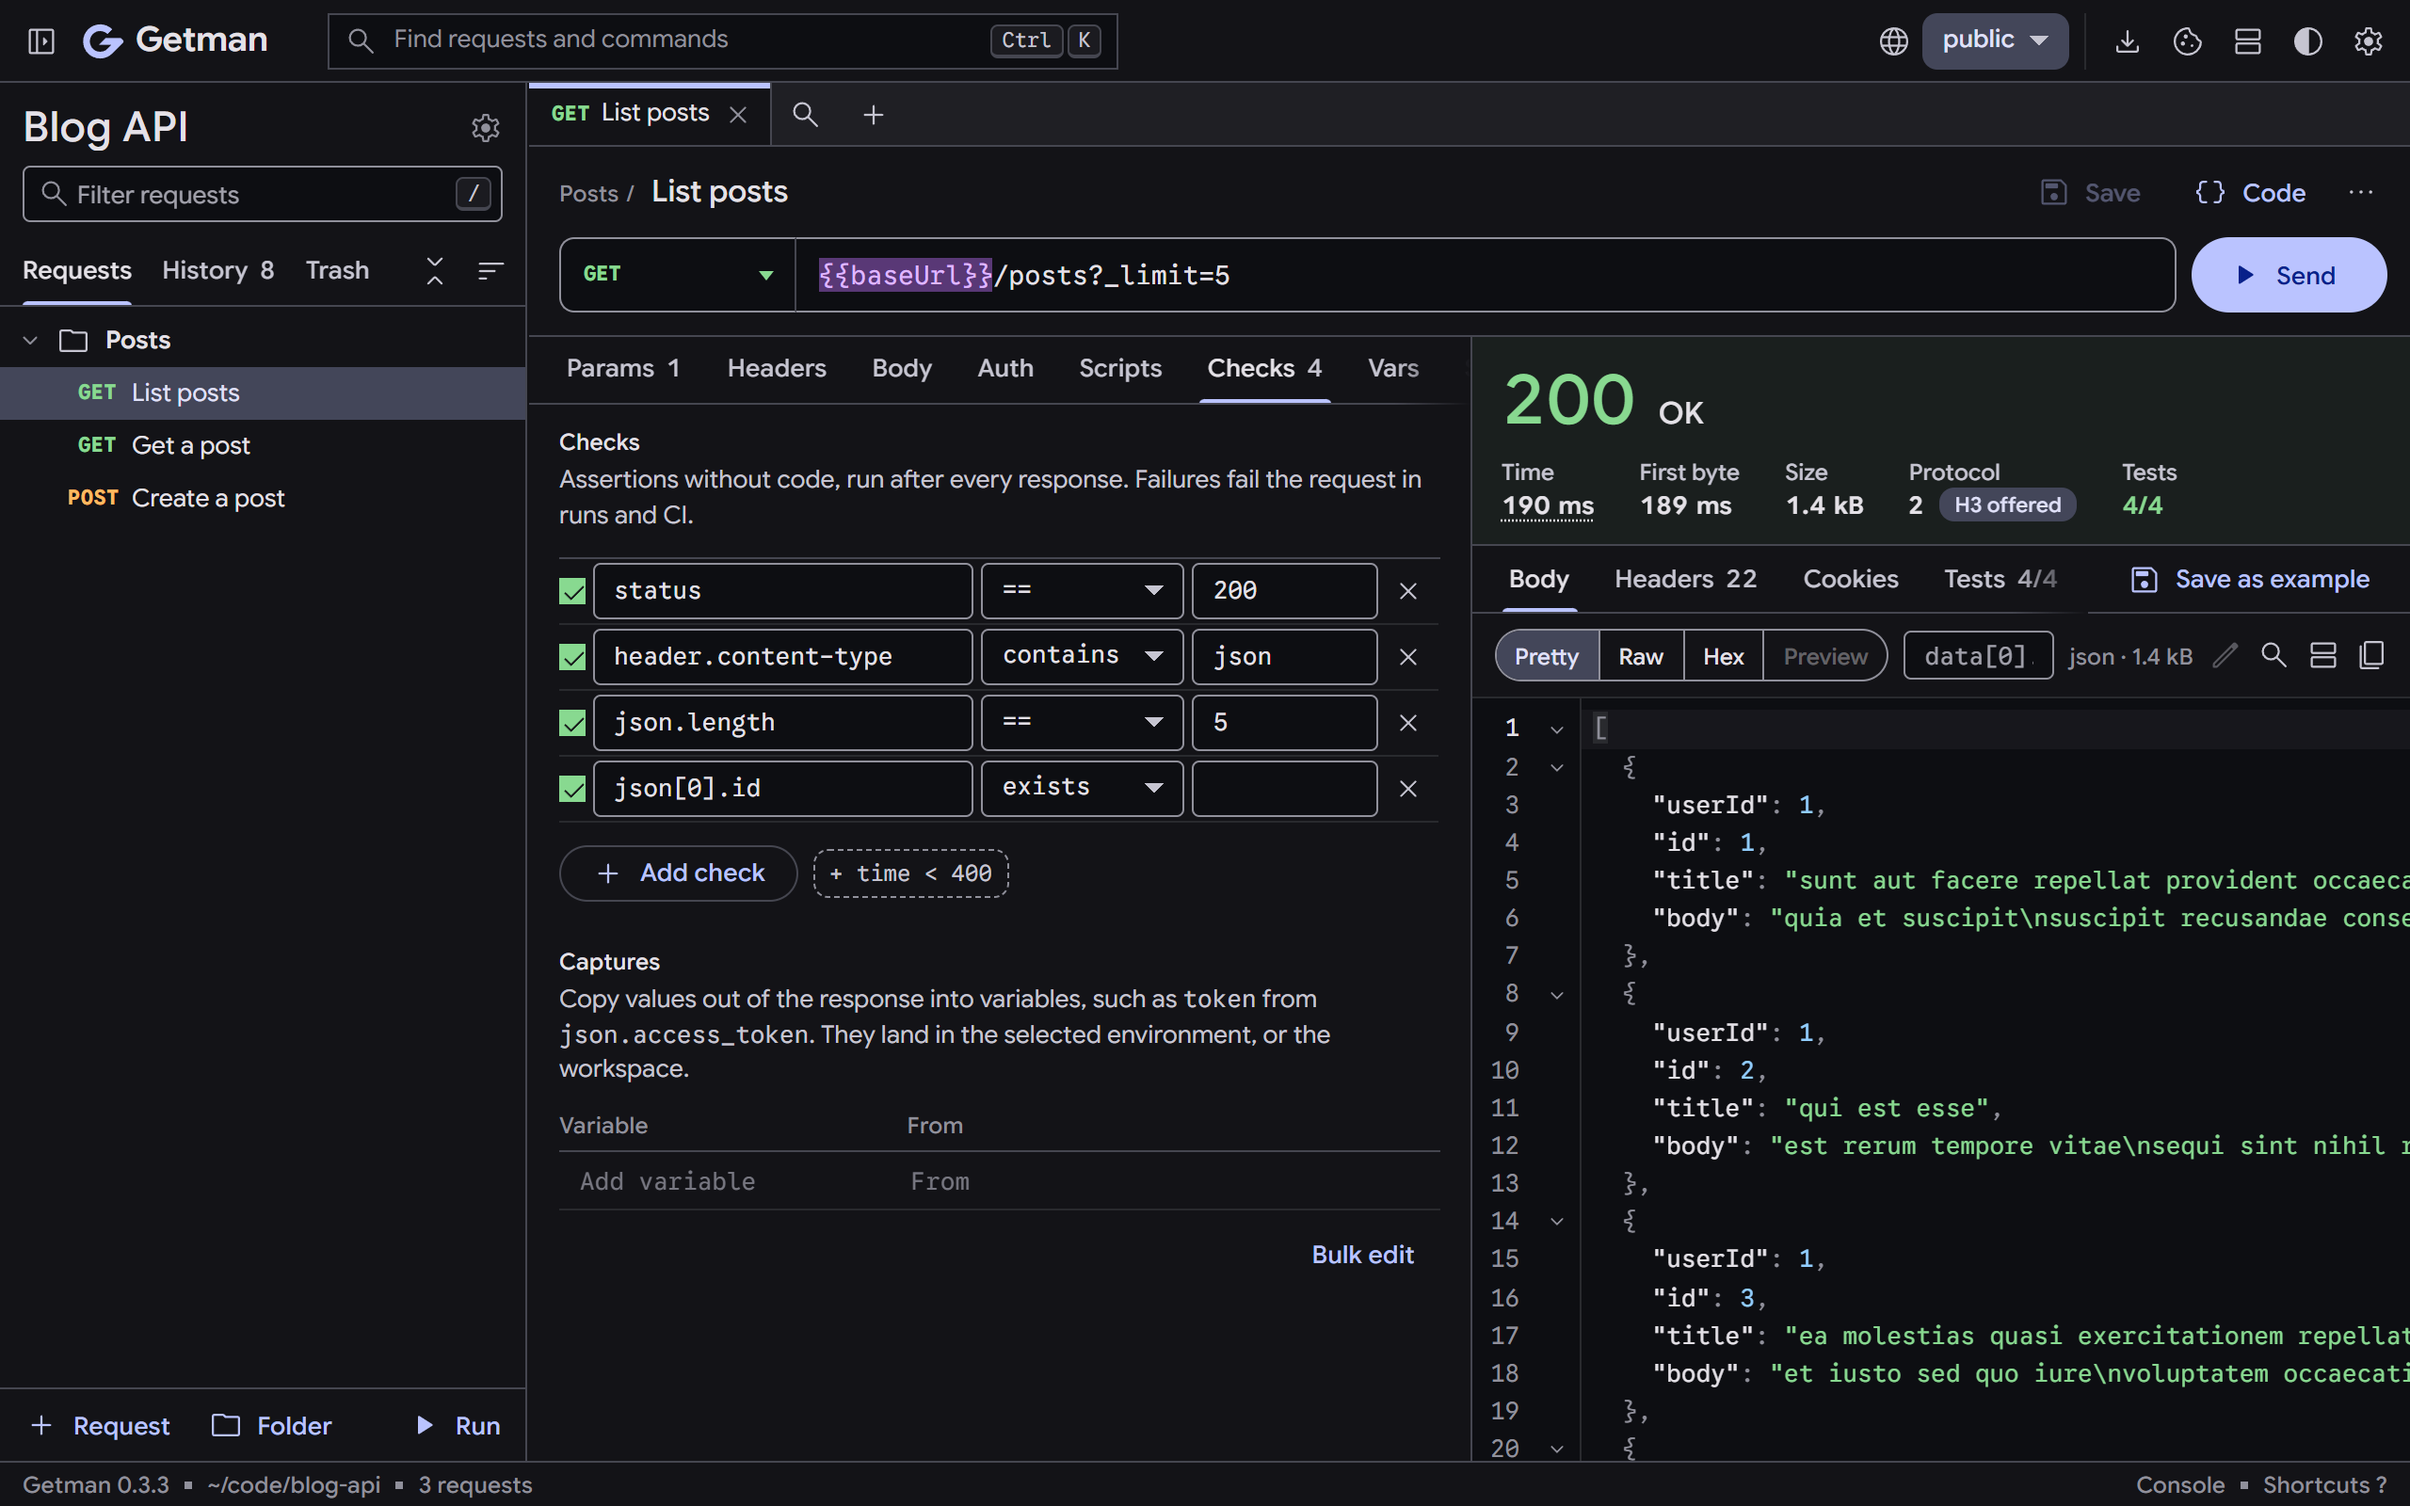
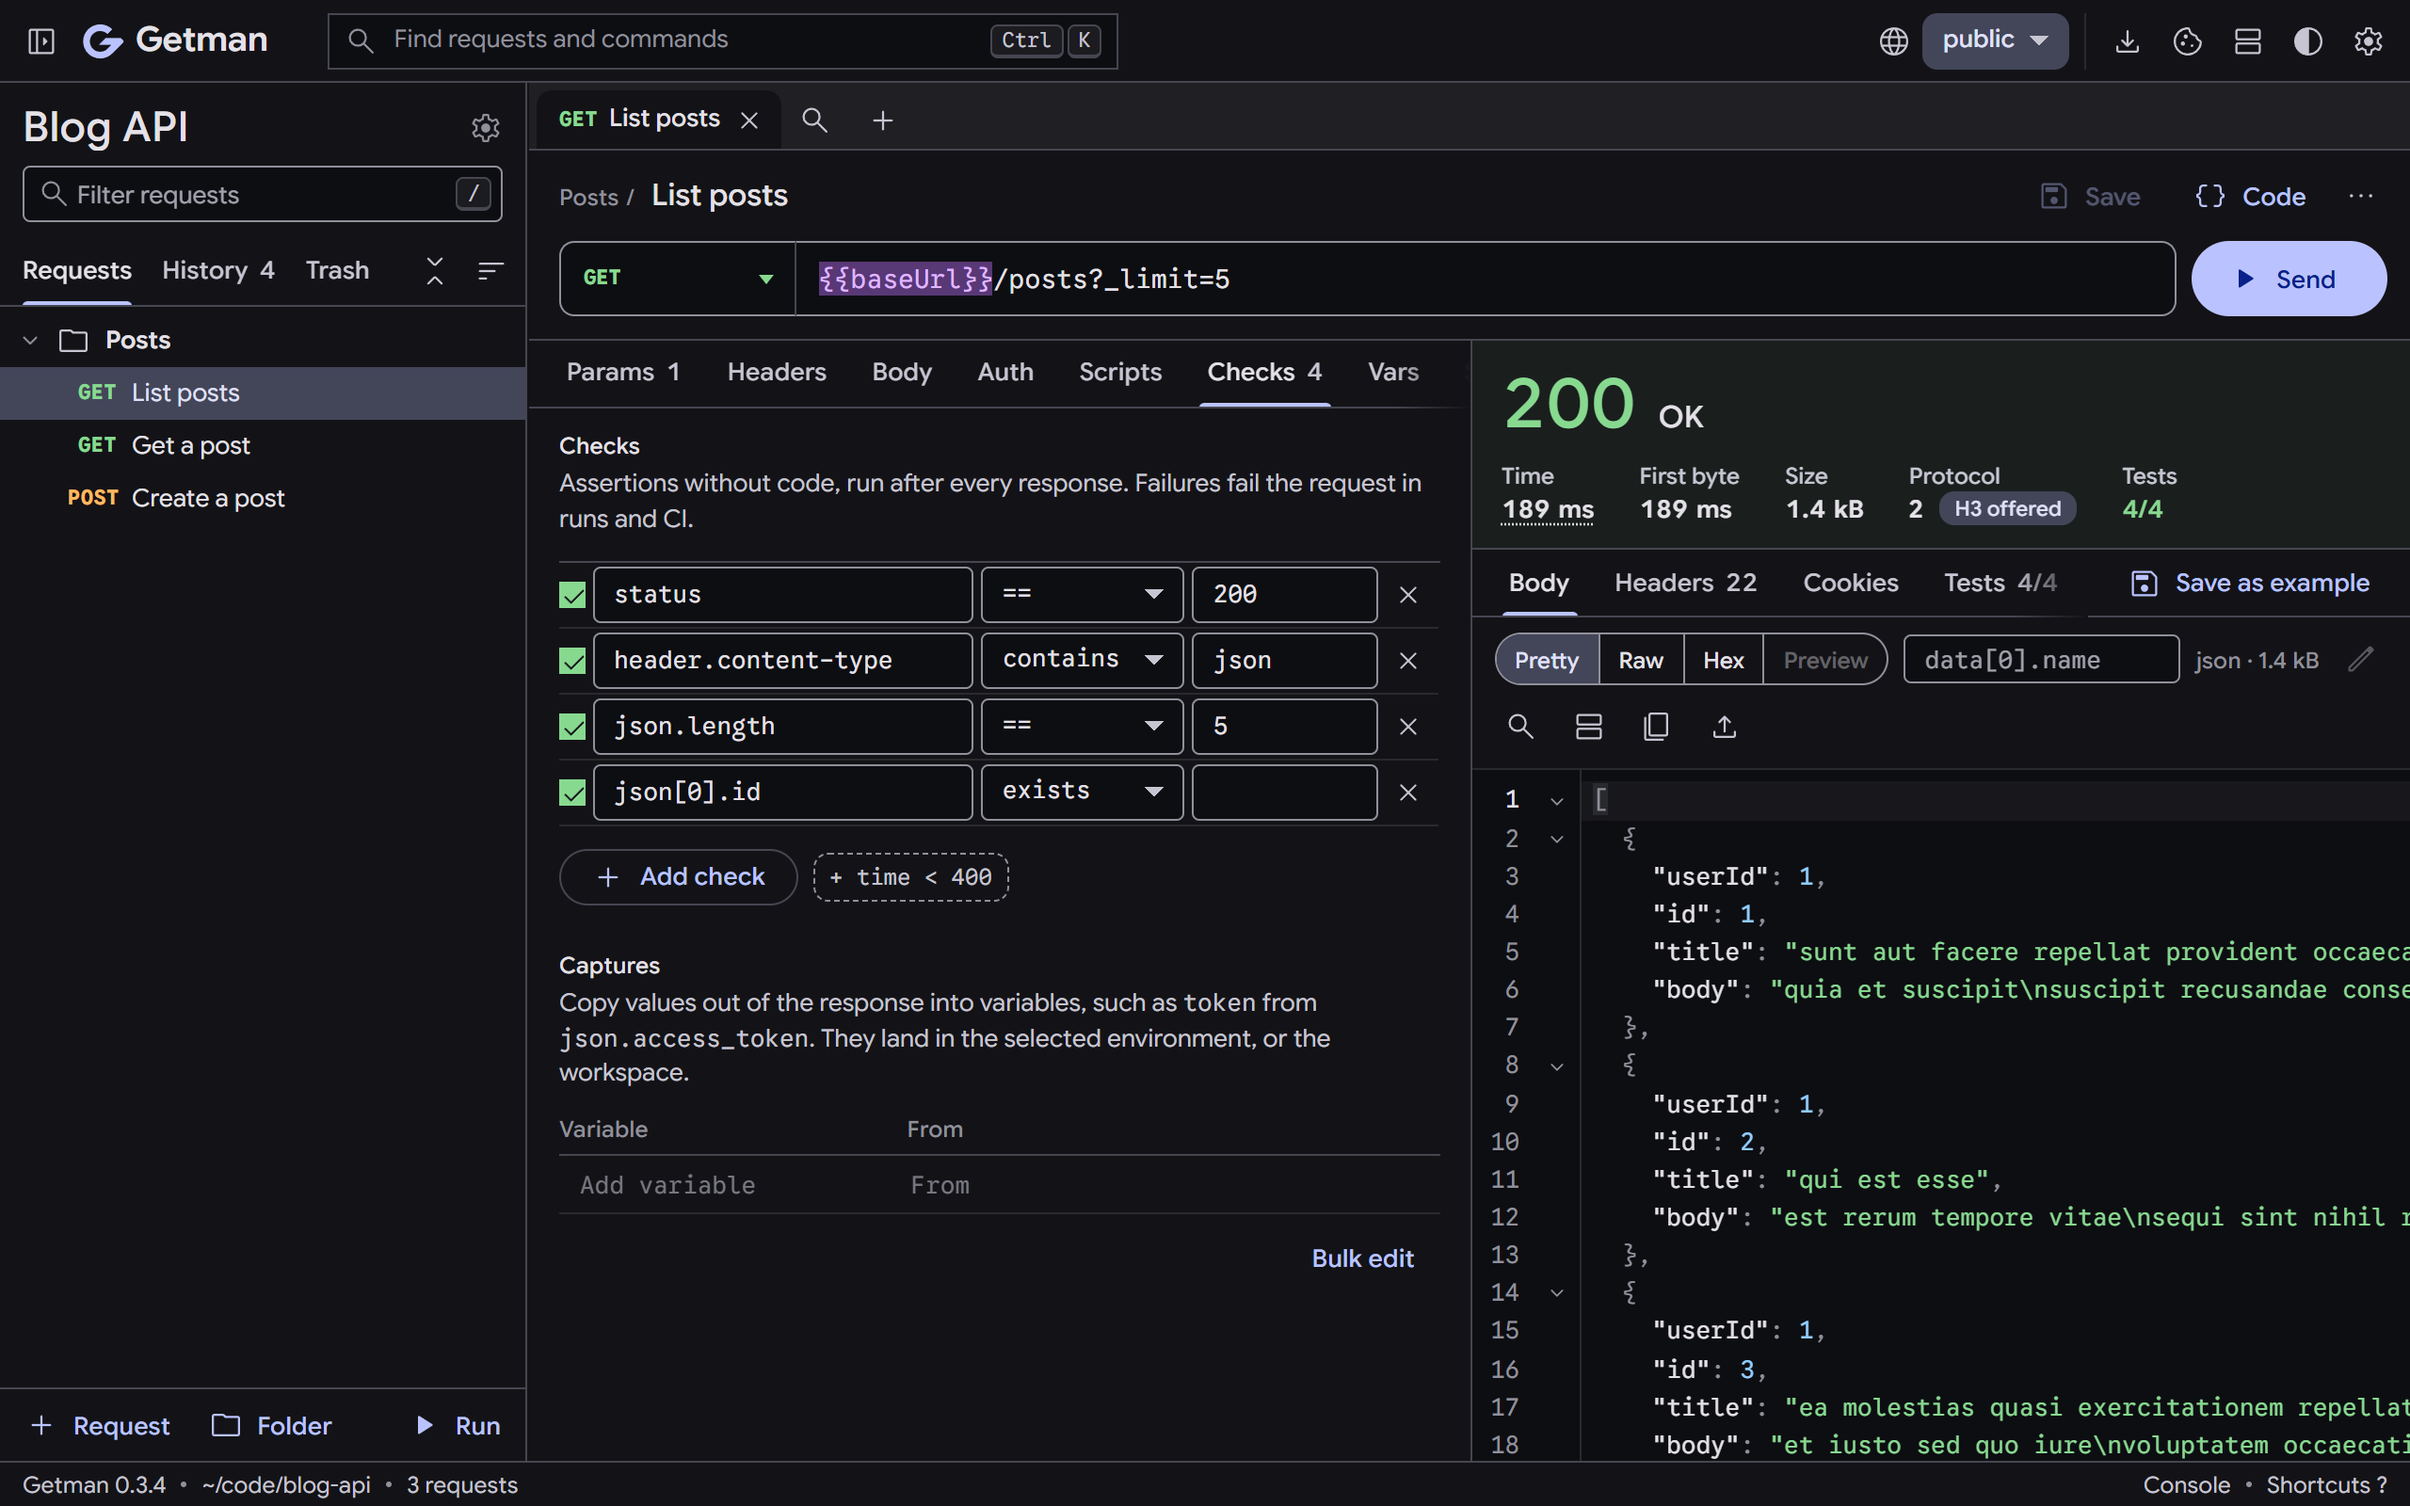
docs: retake the screenshots with 0.3.4 (#48)
* fix(web): keep the JSON filter wide enough for its placeholder

When the response toolbar wraps, the filter could shrink to 80 px and
cut its placeholder to data[0].nam. It now keeps 128 px, enough for
data[0].name in the code face.

* docs: retake the screenshots with 0.3.4

The README and site screenshots now show the open-request tabs and the
status bar of #41 and version 0.3.4. Captured the same way as before.

diff --git a/web/src/components/response/BodyViewer.svelte b/web/src/components/response/BodyViewer.svelte
@@ -321,9 +321,10 @@
     cursor: not-allowed;
   }
 
+  /* Wide enough for its placeholder, data[0].name, in the code face. */
   .filter {
     flex: 1;
-    min-width: 80px;
+    min-width: 128px;
     max-width: 260px;
   }
 
